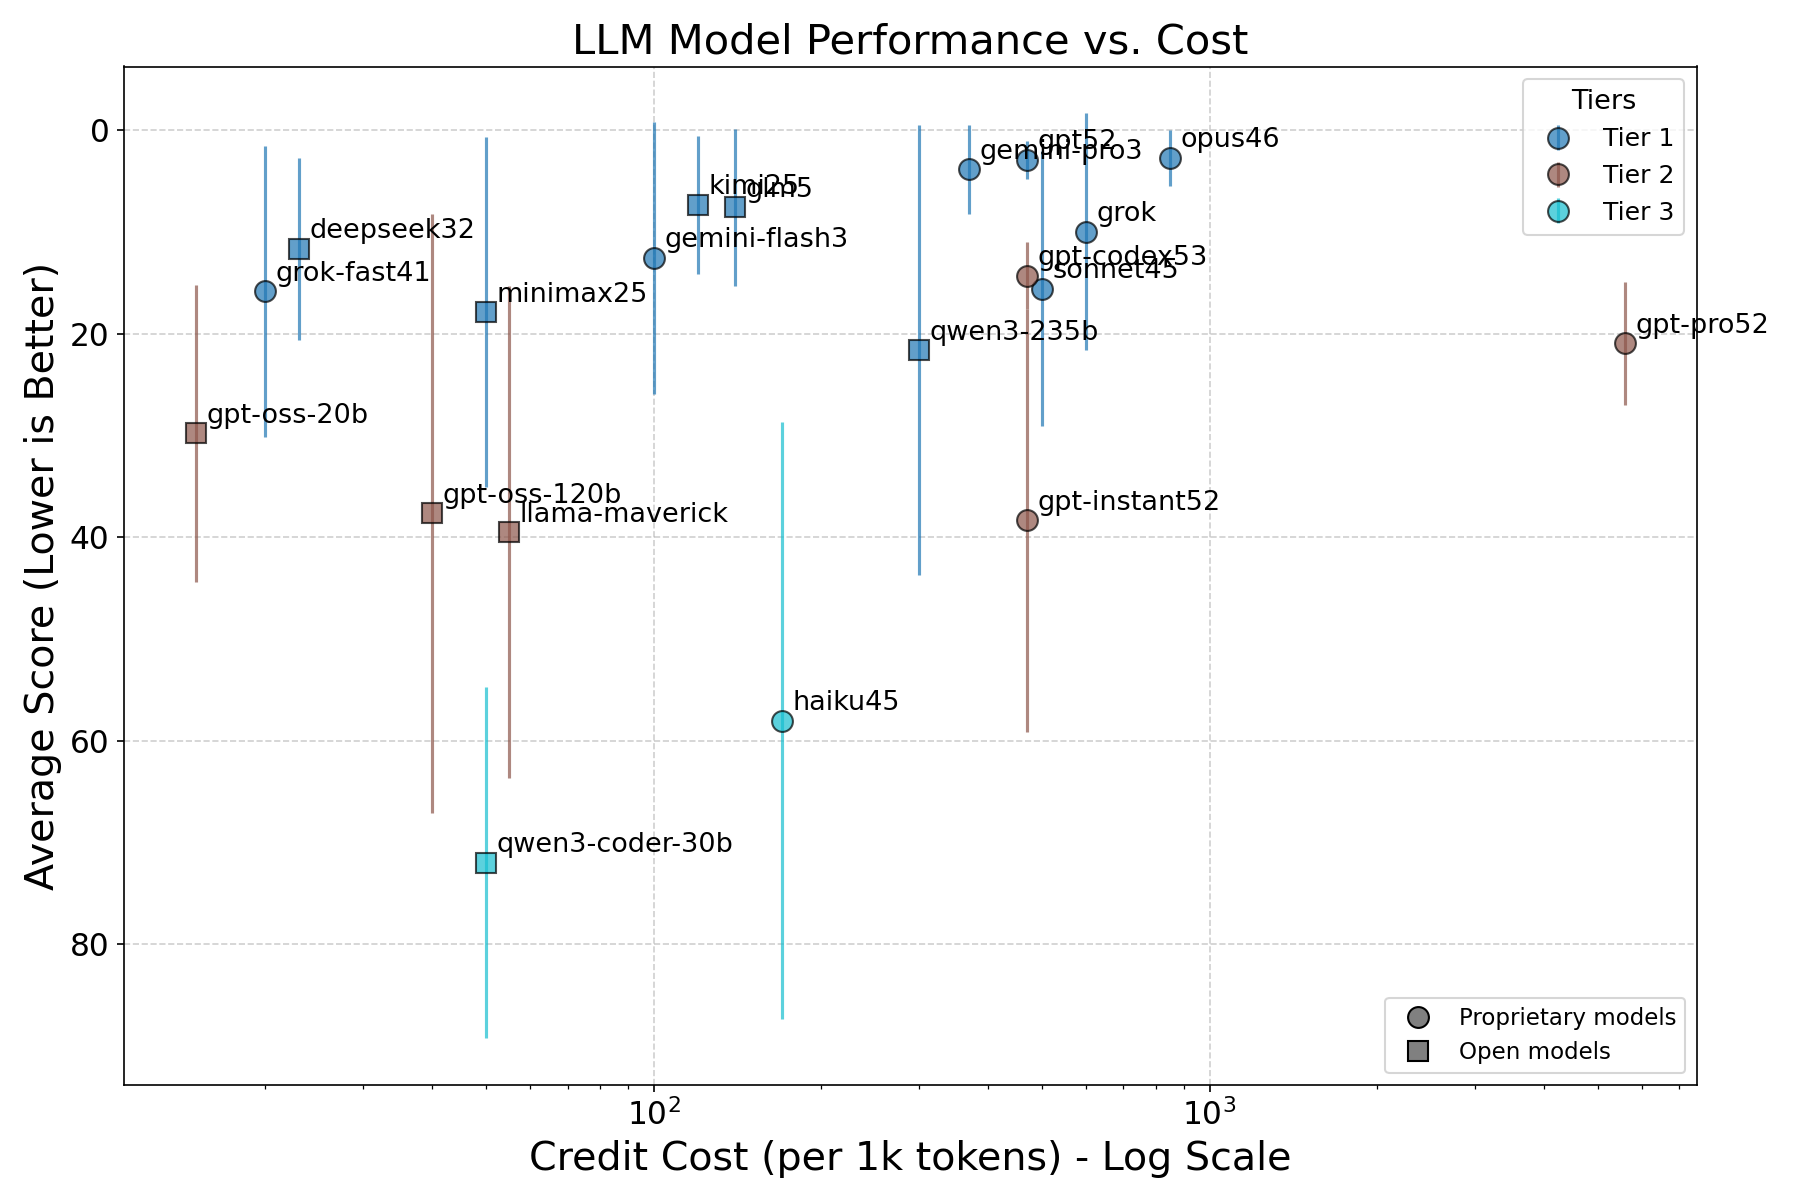
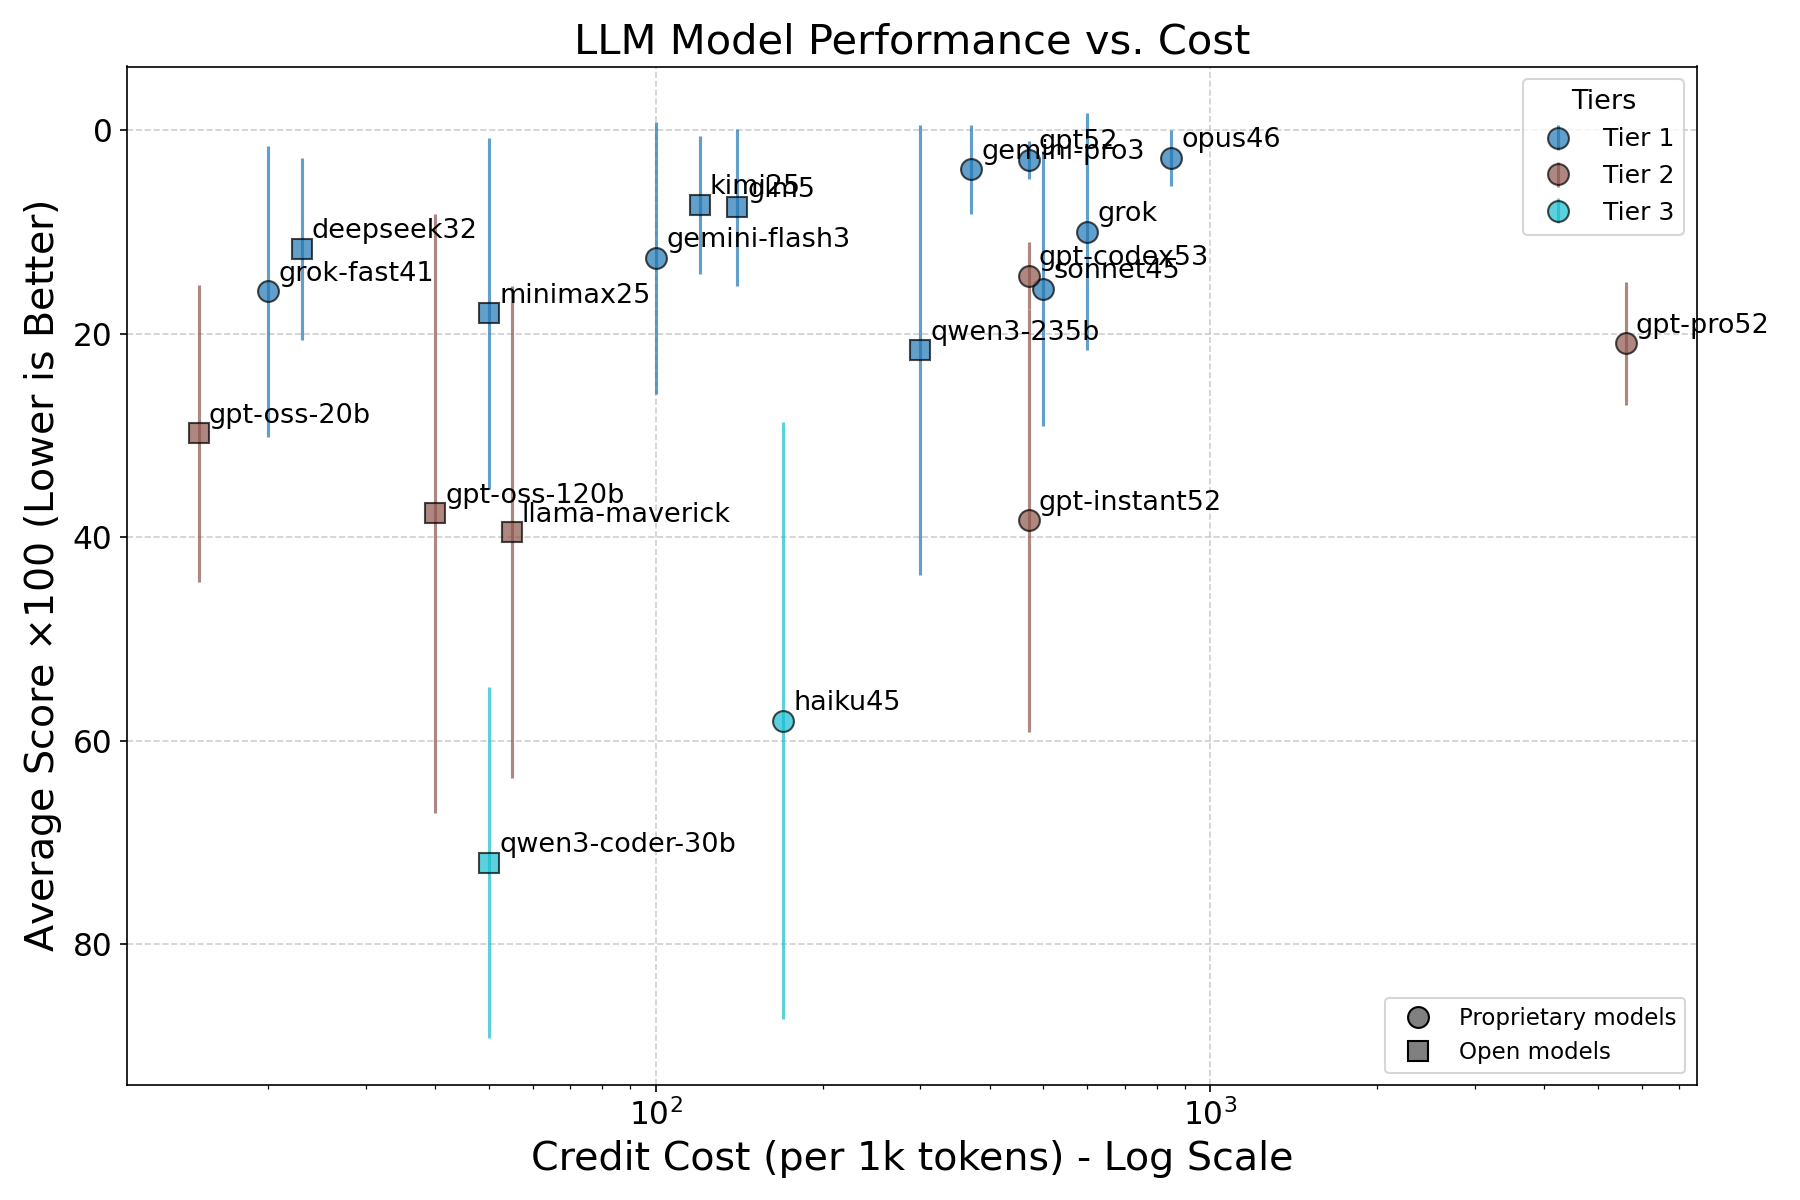
renamed y-axis

diff --git a/rank_models.py b/rank_models.py
@@ -181,7 +181,7 @@ def create_plot(results: list[tuple], output_filename: str, open_models: set[str
     
     # Formatting
     plt.title('LLM Model Performance vs. Cost', fontsize=20)
-    plt.ylabel('Average Score (Lower is Better)', fontsize=19)
+    plt.ylabel('Average Score $\\times 100$ (Lower is Better)', fontsize=19)
     plt.xlabel('Credit Cost (per 1k tokens) - Log Scale', fontsize=19)
     plt.grid(True, linestyle='--', alpha=0.6)
     
